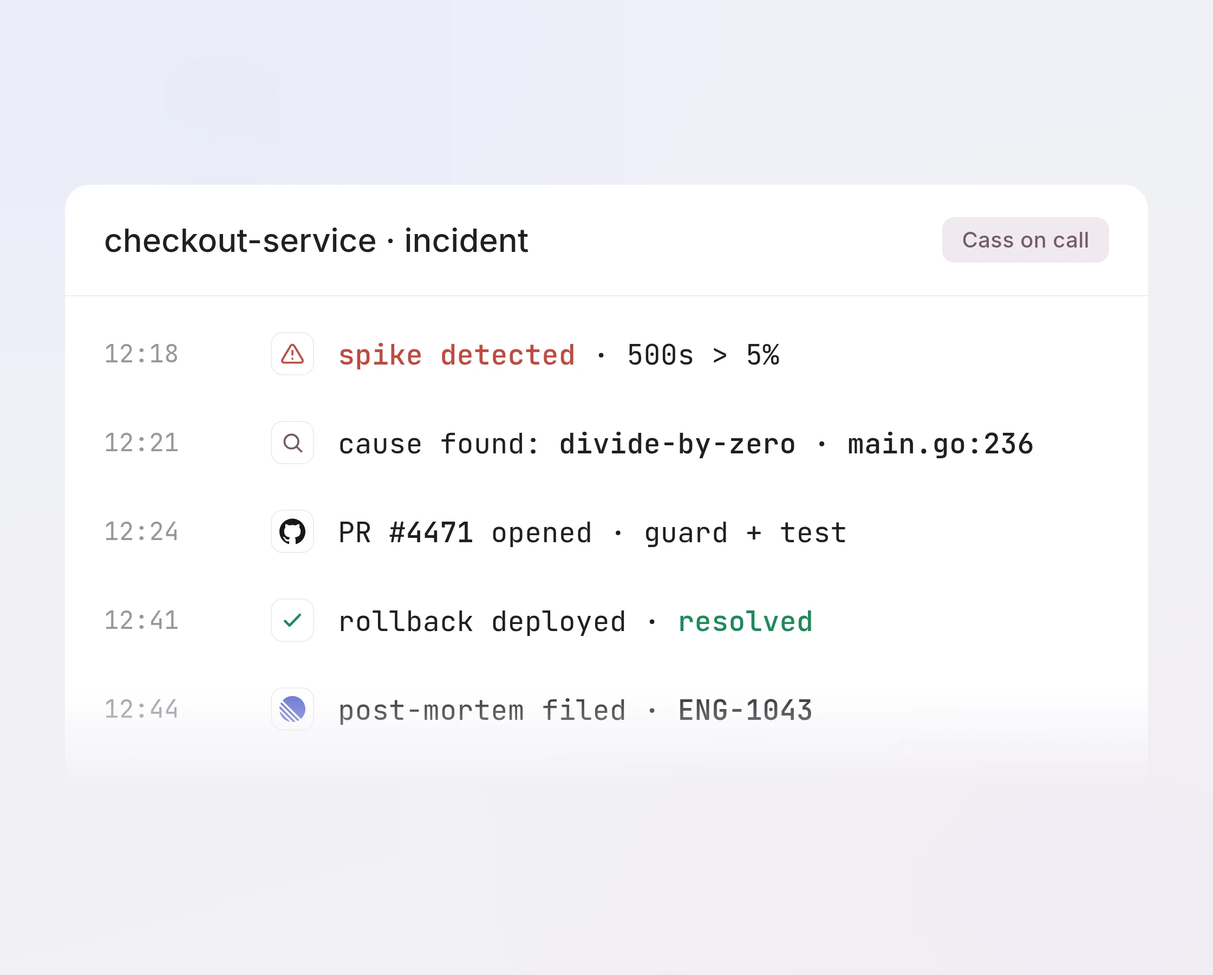
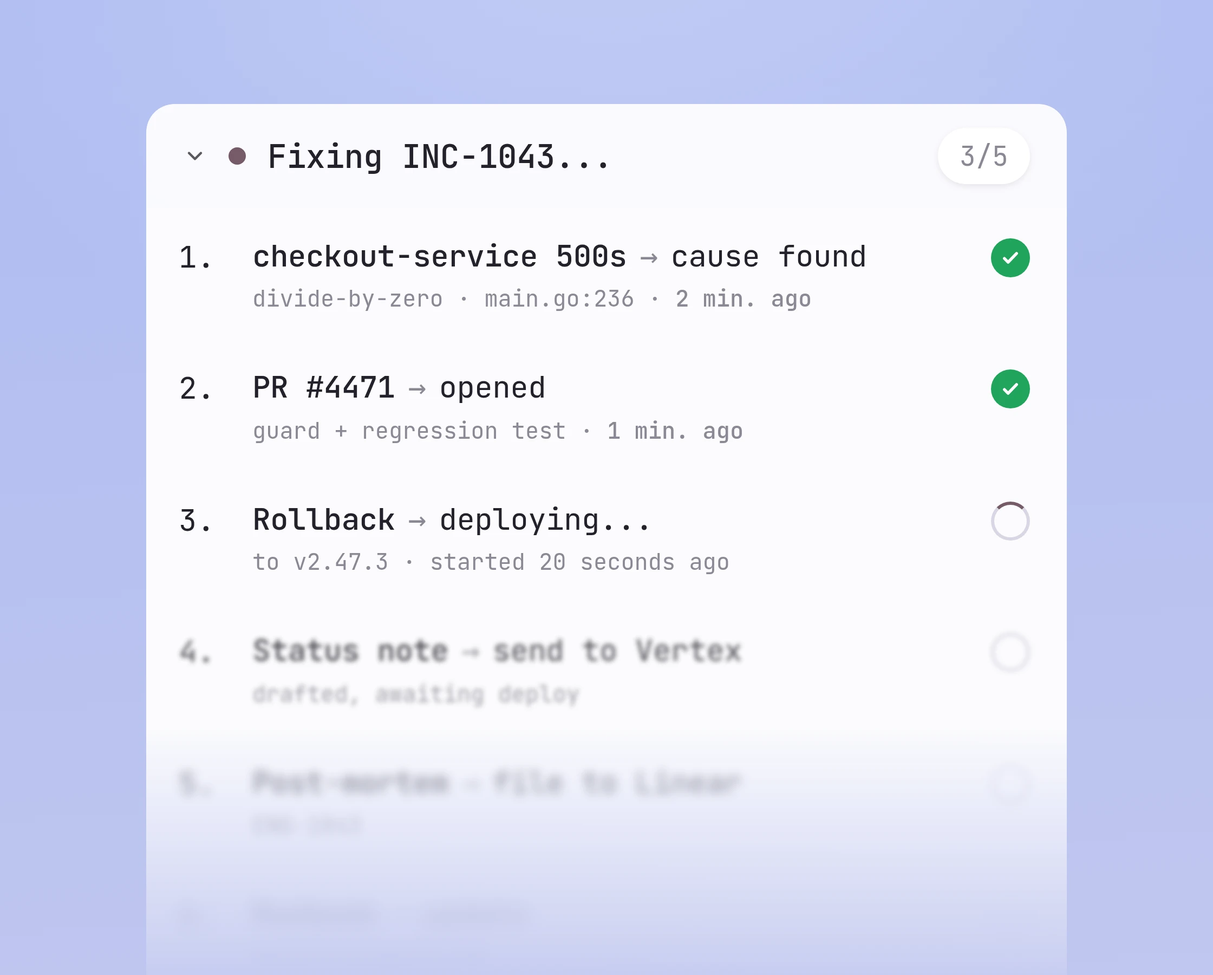
feat(solutions): rev 3 — Ona anatomy transcribed, our skin and data
Rev 2 was structurally clean but bland: whisper-pastel canvas, floating
weightless pills, all-grey type. Rev 3 transcribes the reference card's
anatomy exactly and restores what made it read premium:

- a SATURATED canvas per team (lavender / sage / periwinkle / blush),
  a real color with one soft top light — not a tint
- three value steps: canvas -> tinted chrome strip -> white rows
- mono type for the entire card: title, rows, metas, counter
- the numbered-progress construction: 'Meridian Health -> follow-up
  sent', ordinals, arrows, a right counter pill (3/6, 139/142)
- vivid functional color: saturated green completion circles, our
  maroon as the live dot + spinner ring
- the progressive blur ramp: three sharp rows of finished work
  dissolve into a blurred queue, and the card bleeds off the frame

One anatomy across all four teams, differentiated by data: follow-ups
(sales), month-end close (finance), INC-1043 fix (ce), applicant
screening (people). Anatomy is transcribed; hues, copy, and data are
ours.

diff --git a/art-src/sol-people.html b/art-src/sol-people.html
@@ -1,35 +1,11 @@
-<!DOCTYPE html><html><head><meta charset="utf-8"><link rel="stylesheet" href="_shared.css"><style>
-  .stage{background:
-    radial-gradient(85% 70% at 16% 12%, #f7eae8 0%, rgba(247,234,232,0) 62%),
-    radial-gradient(90% 80% at 90% 90%, #f1ecf5 0%, rgba(241,236,245,0) 60%),
-    linear-gradient(165deg,#f6efed 0%,#f4f1f3 100%);}
-  .pill{position:absolute;left:70px;width:560px;display:flex;align-items:center;gap:22px;background:#fff;
-        border-radius:24px;padding:24px 30px;font-size:27px;font-weight:480;
-        box-shadow:0 18px 44px -18px rgba(31,30,35,.16),0 4px 12px -4px rgba(31,30,35,.07)}
-  .p1{top:104px}.p2{top:254px}.p3{top:404px}
-  .pic{width:58px;height:58px;border-radius:15px;background:#f6eff3;color:#755a68;
-       display:flex;align-items:center;justify-content:center;flex:none}
-  .pic svg{width:29px;height:29px}
-  .pill .st{margin-left:auto;flex:none}
-  .short{position:absolute;right:40px;top:378px;width:470px}
-  .short .hd{padding:24px 30px}
-  .short .hd__t{font-size:26px}
-  .srow{display:flex;align-items:center;gap:18px;padding:19px 30px;border-bottom:1px solid #f3f1f5;font-size:24px}
-  .srow:last-child{border-bottom:0}
-  .av{width:52px;height:52px;border-radius:50%;overflow:hidden;flex:none;background:#eee}
-  .av img{width:100%;height:100%;display:block}
-  .sc{margin-left:auto;font-weight:480;font-variant-numeric:tabular-nums;font-size:26px}
-  .meta{color:#9a95a0;font-size:19px;margin-top:2px}
-</style></head><body><div class="stage">
-  <div class="pill p1"><span class="pic"><svg viewBox="0 0 24 24" fill="none" stroke="currentColor" stroke-width="1.9" stroke-linecap="round" stroke-linejoin="round"><path d="M14 2H6a2 2 0 0 0-2 2v16a2 2 0 0 0 2 2h12a2 2 0 0 0 2-2V8z"/><path d="M14 2v6h6M8 13h8M8 17h5"/></svg></span>Screened 62 résumés<span class="st tick"><svg viewBox="0 0 24 24" fill="none" stroke="currentColor" stroke-width="3.2" stroke-linecap="round" stroke-linejoin="round"><path d="M4.5 12.8l4.6 4.6L19.5 6.6"/></svg></span></div>
-  <div class="pill p2"><span class="pic"><svg viewBox="0 0 24 24" fill="none" stroke="currentColor" stroke-width="1.9" stroke-linecap="round" stroke-linejoin="round"><path d="M9 11l3 3L22 4"/><path d="M21 12v7a2 2 0 0 1-2 2H5a2 2 0 0 1-2-2V5a2 2 0 0 1 2-2h11"/></svg></span>Graded on the scorecard<span class="st tick"><svg viewBox="0 0 24 24" fill="none" stroke="currentColor" stroke-width="3.2" stroke-linecap="round" stroke-linejoin="round"><path d="M4.5 12.8l4.6 4.6L19.5 6.6"/></svg></span></div>
-  <div class="pill p3"><span class="pic"><svg viewBox="0 0 24 24" fill="none" stroke="currentColor" stroke-width="1.9" stroke-linecap="round" stroke-linejoin="round"><rect x="3" y="4" width="18" height="18" rx="2"/><path d="M16 2v4M8 2v4M3 10h18"/></svg></span>Booking the interviews…<span class="st" style="width:26px;height:26px;border-radius:50%;border:3px solid #d9d3dc;border-top-color:#755a68"></span></div>
-  <div class="card short">
-    <div class="hd"><span class="hd__t">AE shortlist</span><span class="tag tag--ok" style="margin-left:auto;font-size:18px;padding:7px 14px">5 of 62</span></div>
-    <div>
-      <div class="srow"><span class="av"><img src="https://randomuser.me/api/portraits/women/44.jpg"></span><span>Maya Patel<div class="meta">6 yrs SaaS AE</div></span><span class="sc">92</span></div>
-      <div class="srow"><span class="av"><img src="https://randomuser.me/api/portraits/men/64.jpg"></span><span>Jordan Lee<div class="meta">4 yrs fintech AE</div></span><span class="sc">88</span></div>
-      <div class="srow"><span class="av"><img src="https://randomuser.me/api/portraits/women/17.jpg"></span><span>Priya Nair<div class="meta">Interview · Thu 2:00 PM</div></span><span class="sc">86</span></div>
-    </div>
-  </div>
-</div></body></html>
+<!DOCTYPE html><html lang="en"><head><meta charset="utf-8"><link rel="stylesheet" href="_ona.css"></head><body>
+<div class="stage cv-blush"><div class="card">
+<div class="hd"><span class="hd__chev"><svg viewBox="0 0 24 24" fill="none" stroke="currentColor" stroke-width="2.4" stroke-linecap="round" stroke-linejoin="round"><path d="M6 9l6 6 6-6"/></svg></span><span class="hd__dot"></span><span class="hd__t">Screening applicants...</span><span class="hd__n">58/62</span></div>
+<div class="rows">
+<div class="r"><span class="r__n">1.</span><span class="r__b"><div class="r__t">Maya Patel<span class="arr">→</span><span class="to">shortlisted</span></div><div class="r__m">92 on the scorecard · 6 yrs SaaS AE</div></span><span class="st st--ok"><svg viewBox="0 0 24 24" fill="none" stroke="currentColor" stroke-width="3.6" stroke-linecap="round" stroke-linejoin="round"><path d="M4.5 12.8l4.6 4.6L19.5 6.6"/></svg></span></div>
+<div class="r"><span class="r__n">2.</span><span class="r__b"><div class="r__t">Jordan Lee<span class="arr">→</span><span class="to">shortlisted</span></div><div class="r__m">88 · 4 yrs fintech AE</div></span><span class="st st--ok"><svg viewBox="0 0 24 24" fill="none" stroke="currentColor" stroke-width="3.6" stroke-linecap="round" stroke-linejoin="round"><path d="M4.5 12.8l4.6 4.6L19.5 6.6"/></svg></span></div>
+<div class="r"><span class="r__n">3.</span><span class="r__b"><div class="r__t">Priya Nair<span class="arr">→</span><span class="to">grading...</span></div><div class="r__m">résumé + portfolio · started 5 seconds ago</div></span><span class="st st--run"></span></div>
+<div class="r r--b1"><span class="r__n">4.</span><span class="r__b"><div class="r__t">R. Okafor<span class="arr">→</span><span class="to">queued</span></div><div class="r__m">applied 2 hours ago</div></span><span class="st st--q"></span></div>
+<div class="r r--b2"><span class="r__n">5.</span><span class="r__b"><div class="r__t">T. Ishida<span class="arr">→</span><span class="to">queued</span></div><div class="r__m">applied 3 hours ago</div></span><span class="st st--q"></span></div>
+<div class="r r--b3"><span class="r__n">6.</span><span class="r__b"><div class="r__t">M. Laurent<span class="arr">→</span><span class="to">queued</span></div><div class="r__m">applied yesterday</div></span><span class="st st--q"></span></div>
+</div></div></div></body></html>

diff --git a/art-src/sol-ce.html b/art-src/sol-ce.html
@@ -1,27 +1,11 @@
-<!DOCTYPE html><html><head><meta charset="utf-8"><link rel="stylesheet" href="_shared.css"><style>
-  .stage{background:
-    radial-gradient(85% 70% at 18% 10%, #e9ecf8 0%, rgba(233,236,248,0) 62%),
-    radial-gradient(90% 80% at 90% 92%, #f0ecf4 0%, rgba(240,236,244,0) 60%),
-    linear-gradient(165deg,#eef0f7 0%,#f3f1f3 100%);}
-  .main{position:absolute;left:50%;top:50%;transform:translate(-50%,-50%);width:1000px;padding-bottom:14px}
-  .lg{display:flex;align-items:center;gap:22px;padding:21px 36px;font-size:26px}
-  .lg .ts{color:#9a95a0;font-variant-numeric:tabular-nums;flex:none;width:132px;font-size:23px}
-  .lg em{font-style:normal;font-weight:500;color:#1f1e23}
-  .lg .bad{color:#c2493f;font-weight:500}
-  .lg .ok{color:#1f8a5b;font-weight:500}
-  .lgic{width:40px;height:40px;border-radius:11px;background:#fff;border:1px solid #eeebf0;
-        display:flex;align-items:center;justify-content:center;flex:none}
-  .lgic img{width:24px;height:24px}
-  .fade{-webkit-mask:linear-gradient(180deg,#000 82%,transparent 100%);mask:linear-gradient(180deg,#000 82%,transparent 100%)}
-</style></head><body><div class="stage">
-  <div class="card main fade">
-    <div class="hd"><span class="hd__t">checkout-service · incident</span><span class="tag tag--run" style="margin-left:auto">Cass on call</span></div>
-    <div class="mono" style="padding:12px 0 20px">
-      <div class="lg"><span class="ts">12:18</span><span class="lgic"><svg width="22" height="22" viewBox="0 0 24 24" fill="none" stroke="#c2493f" stroke-width="2" stroke-linecap="round" stroke-linejoin="round"><path d="M10.29 3.86L1.82 18a2 2 0 0 0 1.71 3h16.94a2 2 0 0 0 1.71-3L13.71 3.86a2 2 0 0 0-3.42 0z"/><path d="M12 9v4M12 17h.01"/></svg></span><span><span class="bad">spike detected</span> · 500s &gt; 5%</span></div>
-      <div class="lg"><span class="ts">12:21</span><span class="lgic"><svg width="22" height="22" viewBox="0 0 24 24" fill="none" stroke="#755a68" stroke-width="2" stroke-linecap="round"><circle cx="11" cy="11" r="7"/><path d="M21 21l-4.35-4.35"/></svg></span><span>cause found: <em>divide-by-zero · main.go:236</em></span></div>
-      <div class="lg"><span class="ts">12:24</span><span class="lgic"><img src="live/assets/github.svg"></span><span>PR <em>#4471</em> opened · guard + test</span></div>
-      <div class="lg"><span class="ts">12:41</span><span class="lgic"><svg width="22" height="22" viewBox="0 0 24 24" fill="none" stroke="#1f8a5b" stroke-width="2.4" stroke-linecap="round" stroke-linejoin="round"><path d="M4.5 12.8l4.6 4.6L19.5 6.6"/></svg></span><span>rollback deployed · <span class="ok">resolved</span></span></div>
-      <div class="lg"><span class="ts">12:44</span><span class="lgic"><img src="live/assets/linear.svg"></span><span>post-mortem filed · <em>ENG-1043</em></span></div>
-    </div>
-  </div>
-</div></body></html>
+<!DOCTYPE html><html lang="en"><head><meta charset="utf-8"><link rel="stylesheet" href="_ona.css"></head><body>
+<div class="stage cv-peri"><div class="card">
+<div class="hd"><span class="hd__chev"><svg viewBox="0 0 24 24" fill="none" stroke="currentColor" stroke-width="2.4" stroke-linecap="round" stroke-linejoin="round"><path d="M6 9l6 6 6-6"/></svg></span><span class="hd__dot"></span><span class="hd__t">Fixing INC-1043...</span><span class="hd__n">3/5</span></div>
+<div class="rows">
+<div class="r"><span class="r__n">1.</span><span class="r__b"><div class="r__t">checkout-service 500s<span class="arr">→</span><span class="to">cause found</span></div><div class="r__m">divide-by-zero · main.go:236 · <b>2 min. ago</b></div></span><span class="st st--ok"><svg viewBox="0 0 24 24" fill="none" stroke="currentColor" stroke-width="3.6" stroke-linecap="round" stroke-linejoin="round"><path d="M4.5 12.8l4.6 4.6L19.5 6.6"/></svg></span></div>
+<div class="r"><span class="r__n">2.</span><span class="r__b"><div class="r__t">PR #4471<span class="arr">→</span><span class="to">opened</span></div><div class="r__m">guard + regression test · <b>1 min. ago</b></div></span><span class="st st--ok"><svg viewBox="0 0 24 24" fill="none" stroke="currentColor" stroke-width="3.6" stroke-linecap="round" stroke-linejoin="round"><path d="M4.5 12.8l4.6 4.6L19.5 6.6"/></svg></span></div>
+<div class="r"><span class="r__n">3.</span><span class="r__b"><div class="r__t">Rollback<span class="arr">→</span><span class="to">deploying...</span></div><div class="r__m">to v2.47.3 · started 20 seconds ago</div></span><span class="st st--run"></span></div>
+<div class="r r--b1"><span class="r__n">4.</span><span class="r__b"><div class="r__t">Status note<span class="arr">→</span><span class="to">send to Vertex</span></div><div class="r__m">drafted, awaiting deploy</div></span><span class="st st--q"></span></div>
+<div class="r r--b2"><span class="r__n">5.</span><span class="r__b"><div class="r__t">Post-mortem<span class="arr">→</span><span class="to">file to Linear</span></div><div class="r__m">ENG-1043</div></span><span class="st st--q"></span></div>
+<div class="r r--b3"><span class="r__n">6.</span><span class="r__b"><div class="r__t">Runbook<span class="arr">→</span><span class="to">update</span></div><div class="r__m">docs/incidents.md</div></span><span class="st st--q"></span></div>
+</div></div></div></body></html>

diff --git a/art-src/sol-finance.html b/art-src/sol-finance.html
@@ -1,21 +1,11 @@
-<!DOCTYPE html><html><head><meta charset="utf-8"><link rel="stylesheet" href="_shared.css"><style>
-  .stage{background:
-    radial-gradient(85% 70% at 20% 10%, #eaf4ec 0%, rgba(234,244,236,0) 60%),
-    radial-gradient(90% 80% at 90% 90%, #f2ece9 0%, rgba(242,236,233,0) 60%),
-    linear-gradient(165deg,#f0f5f0 0%,#f4f1ee 100%);}
-  .main{position:absolute;left:50%;top:50%;transform:translate(-50%,-50%);width:980px}
-  .row{display:flex;align-items:center;gap:24px;padding:26px 36px;border-bottom:1px solid #f3f1f5}
-  .row:last-child{border-bottom:0}
-  .row__l{font-size:29px;flex:1;letter-spacing:.002em}
-  .row__l em{font-style:normal;font-weight:480}
-</style></head><body><div class="stage">
-  <div class="card main">
-    <div class="hd"><span class="hd__t">Month-end close</span><span class="tag tag--ok" style="margin-left:auto"><svg width="18" height="18" viewBox="0 0 24 24" fill="none" stroke="currentColor" stroke-width="3.2" stroke-linecap="round" stroke-linejoin="round"><path d="M4.5 12.8l4.6 4.6L19.5 6.6"/></svg>Done in 1m 12s</span></div>
-    <div>
-      <div class="row"><span class="ic"><img src="live/assets/stripe.svg"></span><span class="row__l">Pulled <em>142 payouts</em> from Stripe</span><span class="tick"><svg viewBox="0 0 24 24" fill="none" stroke="currentColor" stroke-width="3.2" stroke-linecap="round" stroke-linejoin="round"><path d="M4.5 12.8l4.6 4.6L19.5 6.6"/></svg></span></div>
-      <div class="row"><span class="ic"><img src="live/assets/googlesheets.svg"></span><span class="row__l">Matched <em>3,208 ledger rows</em></span><span class="tick"><svg viewBox="0 0 24 24" fill="none" stroke="currentColor" stroke-width="3.2" stroke-linecap="round" stroke-linejoin="round"><path d="M4.5 12.8l4.6 4.6L19.5 6.6"/></svg></span></div>
-      <div class="row"><span class="ic"><img src="live/assets/gmail.svg"></span><span class="row__l"><em>3 exceptions</em> emailed for sign-off</span><span class="warn">!</span></div>
-      <div class="row"><span class="ic"><svg viewBox="0 0 24 24" fill="none" stroke="#755a68" stroke-width="1.9" stroke-linecap="round" stroke-linejoin="round"><path d="M4 19.5A2.5 2.5 0 0 1 6.5 17H20"/><path d="M6.5 2H20v20H6.5A2.5 2.5 0 0 1 4 19.5v-15A2.5 2.5 0 0 1 6.5 2z"/></svg></span><span class="row__l">Board pack refreshed</span><span class="tick"><svg viewBox="0 0 24 24" fill="none" stroke="currentColor" stroke-width="3.2" stroke-linecap="round" stroke-linejoin="round"><path d="M4.5 12.8l4.6 4.6L19.5 6.6"/></svg></span></div>
-    </div>
-  </div>
-</div></body></html>
+<!DOCTYPE html><html lang="en"><head><meta charset="utf-8"><link rel="stylesheet" href="_ona.css"></head><body>
+<div class="stage cv-sage"><div class="card">
+<div class="hd"><span class="hd__chev"><svg viewBox="0 0 24 24" fill="none" stroke="currentColor" stroke-width="2.4" stroke-linecap="round" stroke-linejoin="round"><path d="M6 9l6 6 6-6"/></svg></span><span class="hd__dot"></span><span class="hd__t">Month-end close running...</span><span class="hd__n">139/142</span></div>
+<div class="rows">
+<div class="r"><span class="r__n">1.</span><span class="r__b"><div class="r__t">Stripe payouts<span class="arr">→</span><span class="to">pulled</span></div><div class="r__m">142 payouts · July · <b>1 min. ago</b></div></span><span class="st st--ok"><svg viewBox="0 0 24 24" fill="none" stroke="currentColor" stroke-width="3.6" stroke-linecap="round" stroke-linejoin="round"><path d="M4.5 12.8l4.6 4.6L19.5 6.6"/></svg></span></div>
+<div class="r"><span class="r__n">2.</span><span class="r__b"><div class="r__t">Ledger rows<span class="arr">→</span><span class="to">matched</span></div><div class="r__m">3,208 rows in Sheets · <b>40 sec. ago</b></div></span><span class="st st--ok"><svg viewBox="0 0 24 24" fill="none" stroke="currentColor" stroke-width="3.6" stroke-linecap="round" stroke-linejoin="round"><path d="M4.5 12.8l4.6 4.6L19.5 6.6"/></svg></span></div>
+<div class="r"><span class="r__n">3.</span><span class="r__b"><div class="r__t">QuickBooks<span class="arr">→</span><span class="to">posting entries...</span></div><div class="r__m">139 matched entries · started 8 seconds ago</div></span><span class="st st--run"></span></div>
+<div class="r r--b1"><span class="r__n">4.</span><span class="r__b"><div class="r__t">3 exceptions<span class="arr">→</span><span class="to">email for sign-off</span></div><div class="r__m">over the $1,000 policy</div></span><span class="st st--q"></span></div>
+<div class="r r--b2"><span class="r__n">5.</span><span class="r__b"><div class="r__t">Board pack<span class="arr">→</span><span class="to">refresh</span></div><div class="r__m">reports/july.md</div></span><span class="st st--q"></span></div>
+<div class="r r--b3"><span class="r__n">6.</span><span class="r__b"><div class="r__t">Close checklist<span class="arr">→</span><span class="to">archive</span></div><div class="r__m">July 2026</div></span><span class="st st--q"></span></div>
+</div></div></div></body></html>

diff --git a/art-src/sol-sales.html b/art-src/sol-sales.html
@@ -1,19 +1,11 @@
-<!DOCTYPE html><html><head><meta charset="utf-8"><link rel="stylesheet" href="_shared.css"><style>
-  .stage{background:
-    radial-gradient(85% 70% at 15% 12%, #efeaf6 0%, rgba(239,234,246,0) 62%),
-    radial-gradient(90% 80% at 92% 88%, #f5ecf1 0%, rgba(245,236,241,0) 60%),
-    linear-gradient(165deg,#f2eff5 0%,#f4f1f2 100%);}
-  .stk{position:absolute;left:50%;transform:translateX(-50%);width:880px;display:flex;align-items:center;gap:26px;padding:28px 34px}
-  .t{font-size:29px;font-weight:480}
-  .s{font-size:22px;color:#8b8791;margin-top:4px}
-  .tm{margin-left:auto;font-size:21px;color:#9a95a0;font-variant-numeric:tabular-nums;flex:none}
-  .c1{top:64px;opacity:.42;filter:blur(1px)}
-  .c2{top:258px;opacity:.72}
-  .c3{top:452px}
-  .c4{top:646px}
-</style></head><body><div class="stage">
-  <div class="card stk c1"><span class="ic"><svg viewBox="0 0 24 24" fill="none" stroke="#755a68" stroke-width="1.9" stroke-linecap="round" stroke-linejoin="round"><path d="M22 16.92v3a2 2 0 0 1-2.18 2 19.79 19.79 0 0 1-8.63-3.07 19.5 19.5 0 0 1-6-6 19.79 19.79 0 0 1-3.07-8.67A2 2 0 0 1 4.11 2h3a2 2 0 0 1 2 1.72c.127.96.361 1.903.7 2.81a2 2 0 0 1-.45 2.11L8.09 9.91a16 16 0 0 0 6 6l1.27-1.27a2 2 0 0 1 2.11-.45c.907.339 1.85.573 2.81.7A2 2 0 0 1 22 16.92z"/></svg></span><span><div class="t">Call with Meridian ends</div></span><span class="tm">11:32 AM</span></div>
-  <div class="card stk c2"><span class="ic"><img src="live/assets/hubspot.svg"></span><span><div class="t">Notes logged, deal stage updated</div><div class="s">No CRM homework tonight</div></span></div>
-  <div class="card stk c3"><span class="ic"><img src="live/assets/gmail.svg"></span><span><div class="t">Follow-up drafted from the call</div><div class="s">Pricing recap + the SOC 2 they asked for</div></span></div>
-  <div class="card stk c4"><span class="tick" style="width:66px;height:66px;border-radius:17px"><svg style="width:30px;height:30px" viewBox="0 0 24 24" fill="none" stroke="currentColor" stroke-width="3" stroke-linecap="round" stroke-linejoin="round"><path d="M4.5 12.8l4.6 4.6L19.5 6.6"/></svg></span><span><div class="t">Sent · next meeting booked</div><div class="s">Thursday 2:00 PM, brief ready before it</div></span></div>
-</div></body></html>
+<!DOCTYPE html><html lang="en"><head><meta charset="utf-8"><link rel="stylesheet" href="_ona.css"></head><body>
+<div class="stage cv-lav"><div class="card">
+<div class="hd"><span class="hd__chev"><svg viewBox="0 0 24 24" fill="none" stroke="currentColor" stroke-width="2.4" stroke-linecap="round" stroke-linejoin="round"><path d="M6 9l6 6 6-6"/></svg></span><span class="hd__dot"></span><span class="hd__t">Follow-ups in progress...</span><span class="hd__n">3/6</span></div>
+<div class="rows">
+<div class="r"><span class="r__n">1.</span><span class="r__b"><div class="r__t">Meridian Health<span class="arr">→</span><span class="to">follow-up sent</span></div><div class="r__m">Pricing recap + SOC 2 · <b>1 min. ago</b></div></span><span class="st st--ok"><svg viewBox="0 0 24 24" fill="none" stroke="currentColor" stroke-width="3.6" stroke-linecap="round" stroke-linejoin="round"><path d="M4.5 12.8l4.6 4.6L19.5 6.6"/></svg></span></div>
+<div class="r"><span class="r__n">2.</span><span class="r__b"><div class="r__t">Brightline<span class="arr">→</span><span class="to">follow-up sent</span></div><div class="r__m">Pricing nudge · <b>30 sec. ago</b></div></span><span class="st st--ok"><svg viewBox="0 0 24 24" fill="none" stroke="currentColor" stroke-width="3.6" stroke-linecap="round" stroke-linejoin="round"><path d="M4.5 12.8l4.6 4.6L19.5 6.6"/></svg></span></div>
+<div class="r"><span class="r__n">3.</span><span class="r__b"><div class="r__t">Coastal Freight<span class="arr">→</span><span class="to">drafting...</span></div><div class="r__m">from the call notes · started 10 seconds ago</div></span><span class="st st--run"></span></div>
+<div class="r r--b1"><span class="r__n">4.</span><span class="r__b"><div class="r__t">Northwind<span class="arr">→</span><span class="to">queued</span></div><div class="r__m">stalled 21 days · next up</div></span><span class="st st--q"></span></div>
+<div class="r r--b2"><span class="r__n">5.</span><span class="r__b"><div class="r__t">Vertex<span class="arr">→</span><span class="to">queued</span></div><div class="r__m">stalled 24 days</div></span><span class="st st--q"></span></div>
+<div class="r r--b3"><span class="r__n">6.</span><span class="r__b"><div class="r__t">Atlas Freight<span class="arr">→</span><span class="to">queued</span></div><div class="r__m">stalled 30 days</div></span><span class="st st--q"></span></div>
+</div></div></div></body></html>

diff --git a/art-src/_ona.css b/art-src/_ona.css
@@ -1,0 +1,73 @@
+/* ═══════════════════════════════════════════════════════════════════════════
+   SOLUTIONS ILLUSTRATIONS · rev 3 — Ona anatomy, transcribed exactly.
+   What rev 2 lacked and this restores, measured off the reference:
+   · a SATURATED canvas (a real color, not a whisper of tint)
+   · three value steps: canvas → tinted chrome strip → white rows
+   · mono type for the entire card — titles, rows, metas
+   · vivid functional color: saturated green checks, one live accent
+   · the progressive blur ramp: sharp rows dissolve into blurred queue
+   Skin is ours: brand hues, maroon as the live color, our data.
+   ═══════════════════════════════════════════════════════════════════════════ */
+@import url('https://fonts.googleapis.com/css2?family=JetBrains+Mono:wght@400;500&display=swap');
+
+* { box-sizing: border-box; } html, body { margin: 0; }
+
+:root {
+  --ink: #23212a; --sub: #8a8894;
+  --ok: #21a45d;                 /* saturated completion green */
+  --live: #755a68;               /* our maroon is the live/running color */
+  --chrome-a: rgba(255,255,255,.55);
+}
+
+.stage {
+  position: relative; width: 1120px; height: 900px; overflow: hidden;
+  display: flex; justify-content: center;
+  font-family: 'JetBrains Mono', ui-monospace, monospace;
+  color: var(--ink); -webkit-font-smoothing: antialiased;
+}
+/* saturated canvases — a real color with one soft top light */
+.cv-lav   { background: radial-gradient(90% 70% at 50% -10%, #cdc9f1 0%, rgba(205,201,241,0) 70%), linear-gradient(175deg, #b8b3e9 0%, #c6bde9 100%); }
+.cv-sage  { background: radial-gradient(90% 70% at 50% -10%, #cfe3cf 0%, rgba(207,227,207,0) 70%), linear-gradient(175deg, #b4d2b6 0%, #c8d8c2 100%); }
+.cv-peri  { background: radial-gradient(90% 70% at 50% -10%, #c3cdf5 0%, rgba(195,205,245,0) 70%), linear-gradient(175deg, #aebcf2 0%, #c0c6ef 100%); }
+.cv-blush { background: radial-gradient(90% 70% at 50% -10%, #f2d3ca 0%, rgba(242,211,202,0) 70%), linear-gradient(175deg, #e8bfb4 0%, #ecccc6 100%); }
+
+/* the card — bleeds off the bottom of the frame, like the reference */
+.card {
+  position: absolute; top: 96px; width: 850px;
+  border-radius: 26px; overflow: hidden;
+  background: rgba(248,248,252,.92);
+  box-shadow: 0 34px 70px -26px rgba(28,24,40,.35), 0 10px 26px -12px rgba(28,24,40,.18);
+  height: 870px;
+  -webkit-mask: linear-gradient(180deg, #000 66%, transparent 97%);
+  mask: linear-gradient(180deg, #000 66%, transparent 97%);
+}
+
+/* chrome strip: chevron · live dot · mono title · counter pill */
+.hd { display: flex; align-items: center; gap: 20px; height: 96px; padding: 0 34px; background: var(--chrome-a); }
+.hd__chev { width: 22px; height: 22px; flex: none; color: var(--ink); opacity: .75; }
+.hd__dot { width: 16px; height: 16px; border-radius: 50%; background: var(--live); flex: none; }
+.hd__t { font-size: 30px; font-weight: 500; letter-spacing: -.01em; }
+.hd__n { margin-left: auto; flex: none; height: 52px; padding: 0 20px; display: flex; align-items: center;
+         background: #fff; border-radius: 999px; font-size: 25px; color: var(--sub);
+         box-shadow: 0 2px 8px -2px rgba(28,24,40,.15); }
+
+/* rows: ordinal · title → state · meta · status glyph */
+.rows { background: #fbfbfd; }
+.r { display: flex; align-items: flex-start; gap: 22px; padding: 26px 34px 24px 30px; }
+.r__n { font-size: 28px; color: var(--ink); flex: none; width: 46px; }
+.r__b { min-width: 0; flex: 1; }
+.r__t { font-size: 28px; font-weight: 500; letter-spacing: -.012em; line-height: 1.3; }
+.r__t .arr { color: var(--sub); font-weight: 400; padding: 0 12px; }
+.r__t .to { font-weight: 400; }
+.r__m { font-size: 21px; color: var(--sub); margin-top: 8px; }
+.r__m b { font-weight: 500; color: var(--sub); }
+.st { flex: none; width: 36px; height: 36px; margin-top: 2px; }
+.st--ok { border-radius: 50%; background: var(--ok); display: flex; align-items: center; justify-content: center; }
+.st--ok svg { width: 18px; height: 18px; color: #fff; }
+.st--run { border-radius: 50%; border: 3.5px solid #d9d6e4; border-top-color: var(--live); }
+.st--q { border-radius: 50%; border: 3.5px solid #d9d6e4; }
+
+/* the blur ramp — sharp work dissolves into the queue */
+.r--b1 { filter: blur(2px);  opacity: .8; }
+.r--b2 { filter: blur(4.5px); opacity: .55; }
+.r--b3 { filter: blur(8px);  opacity: .35; }
